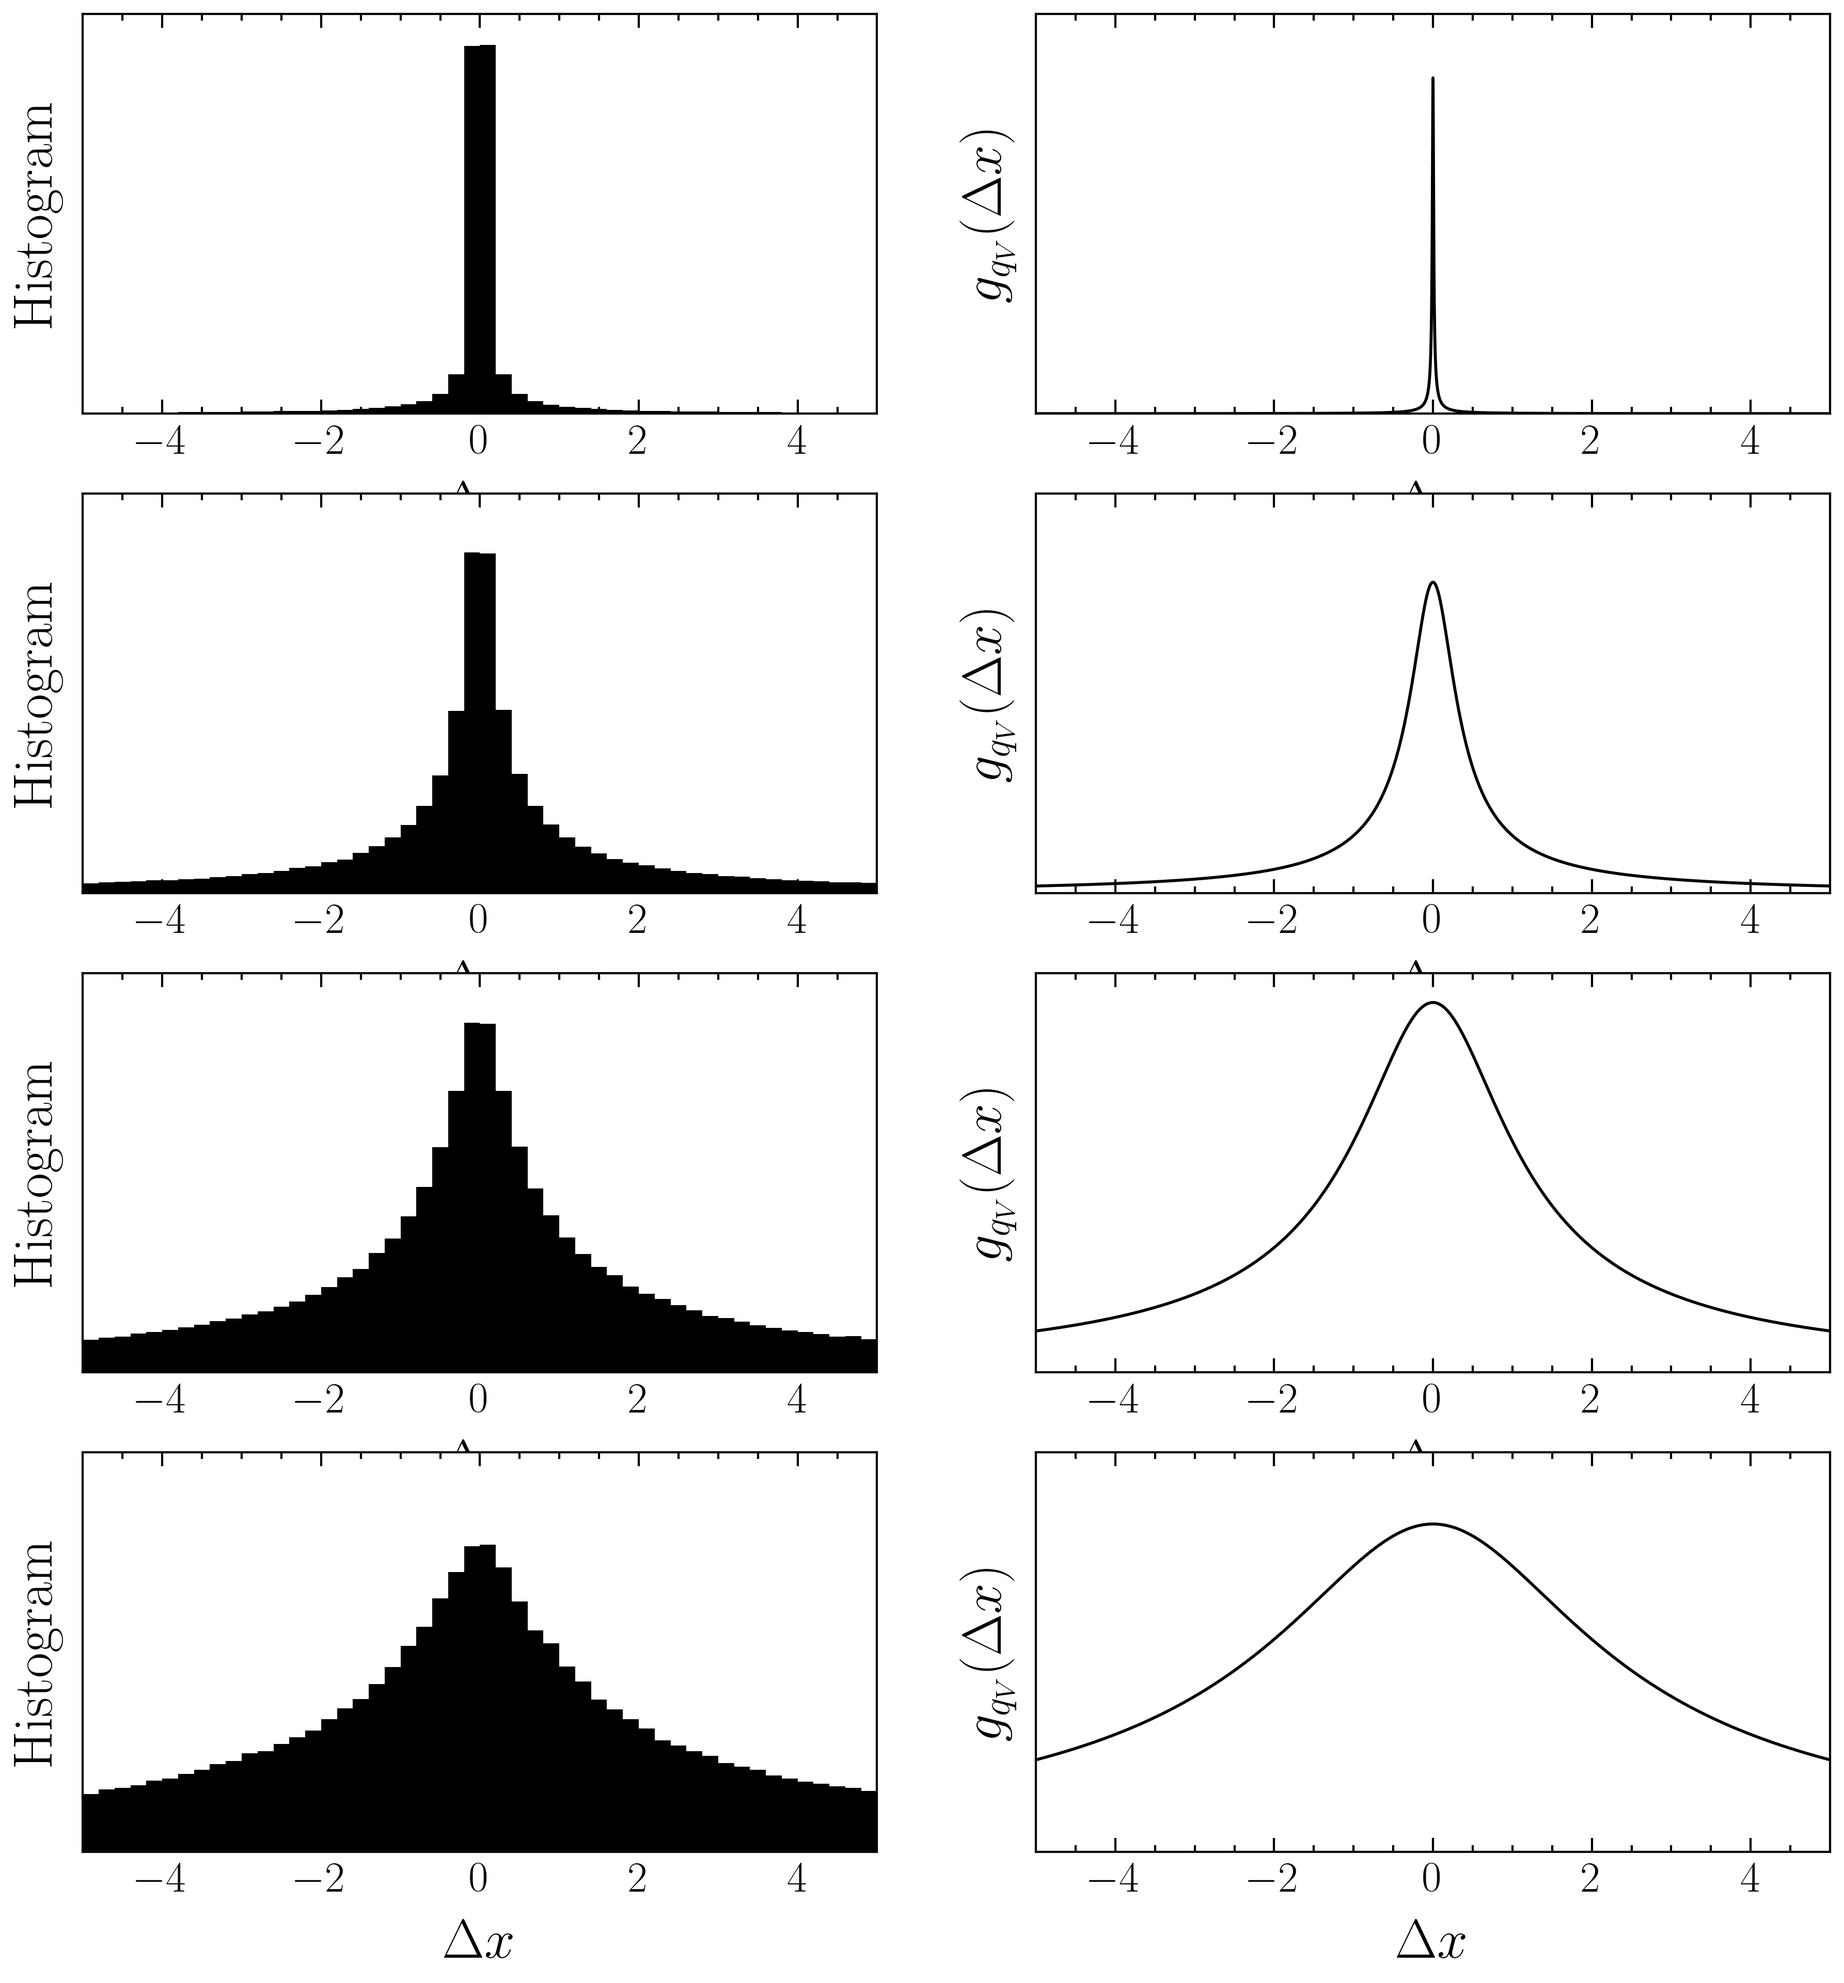
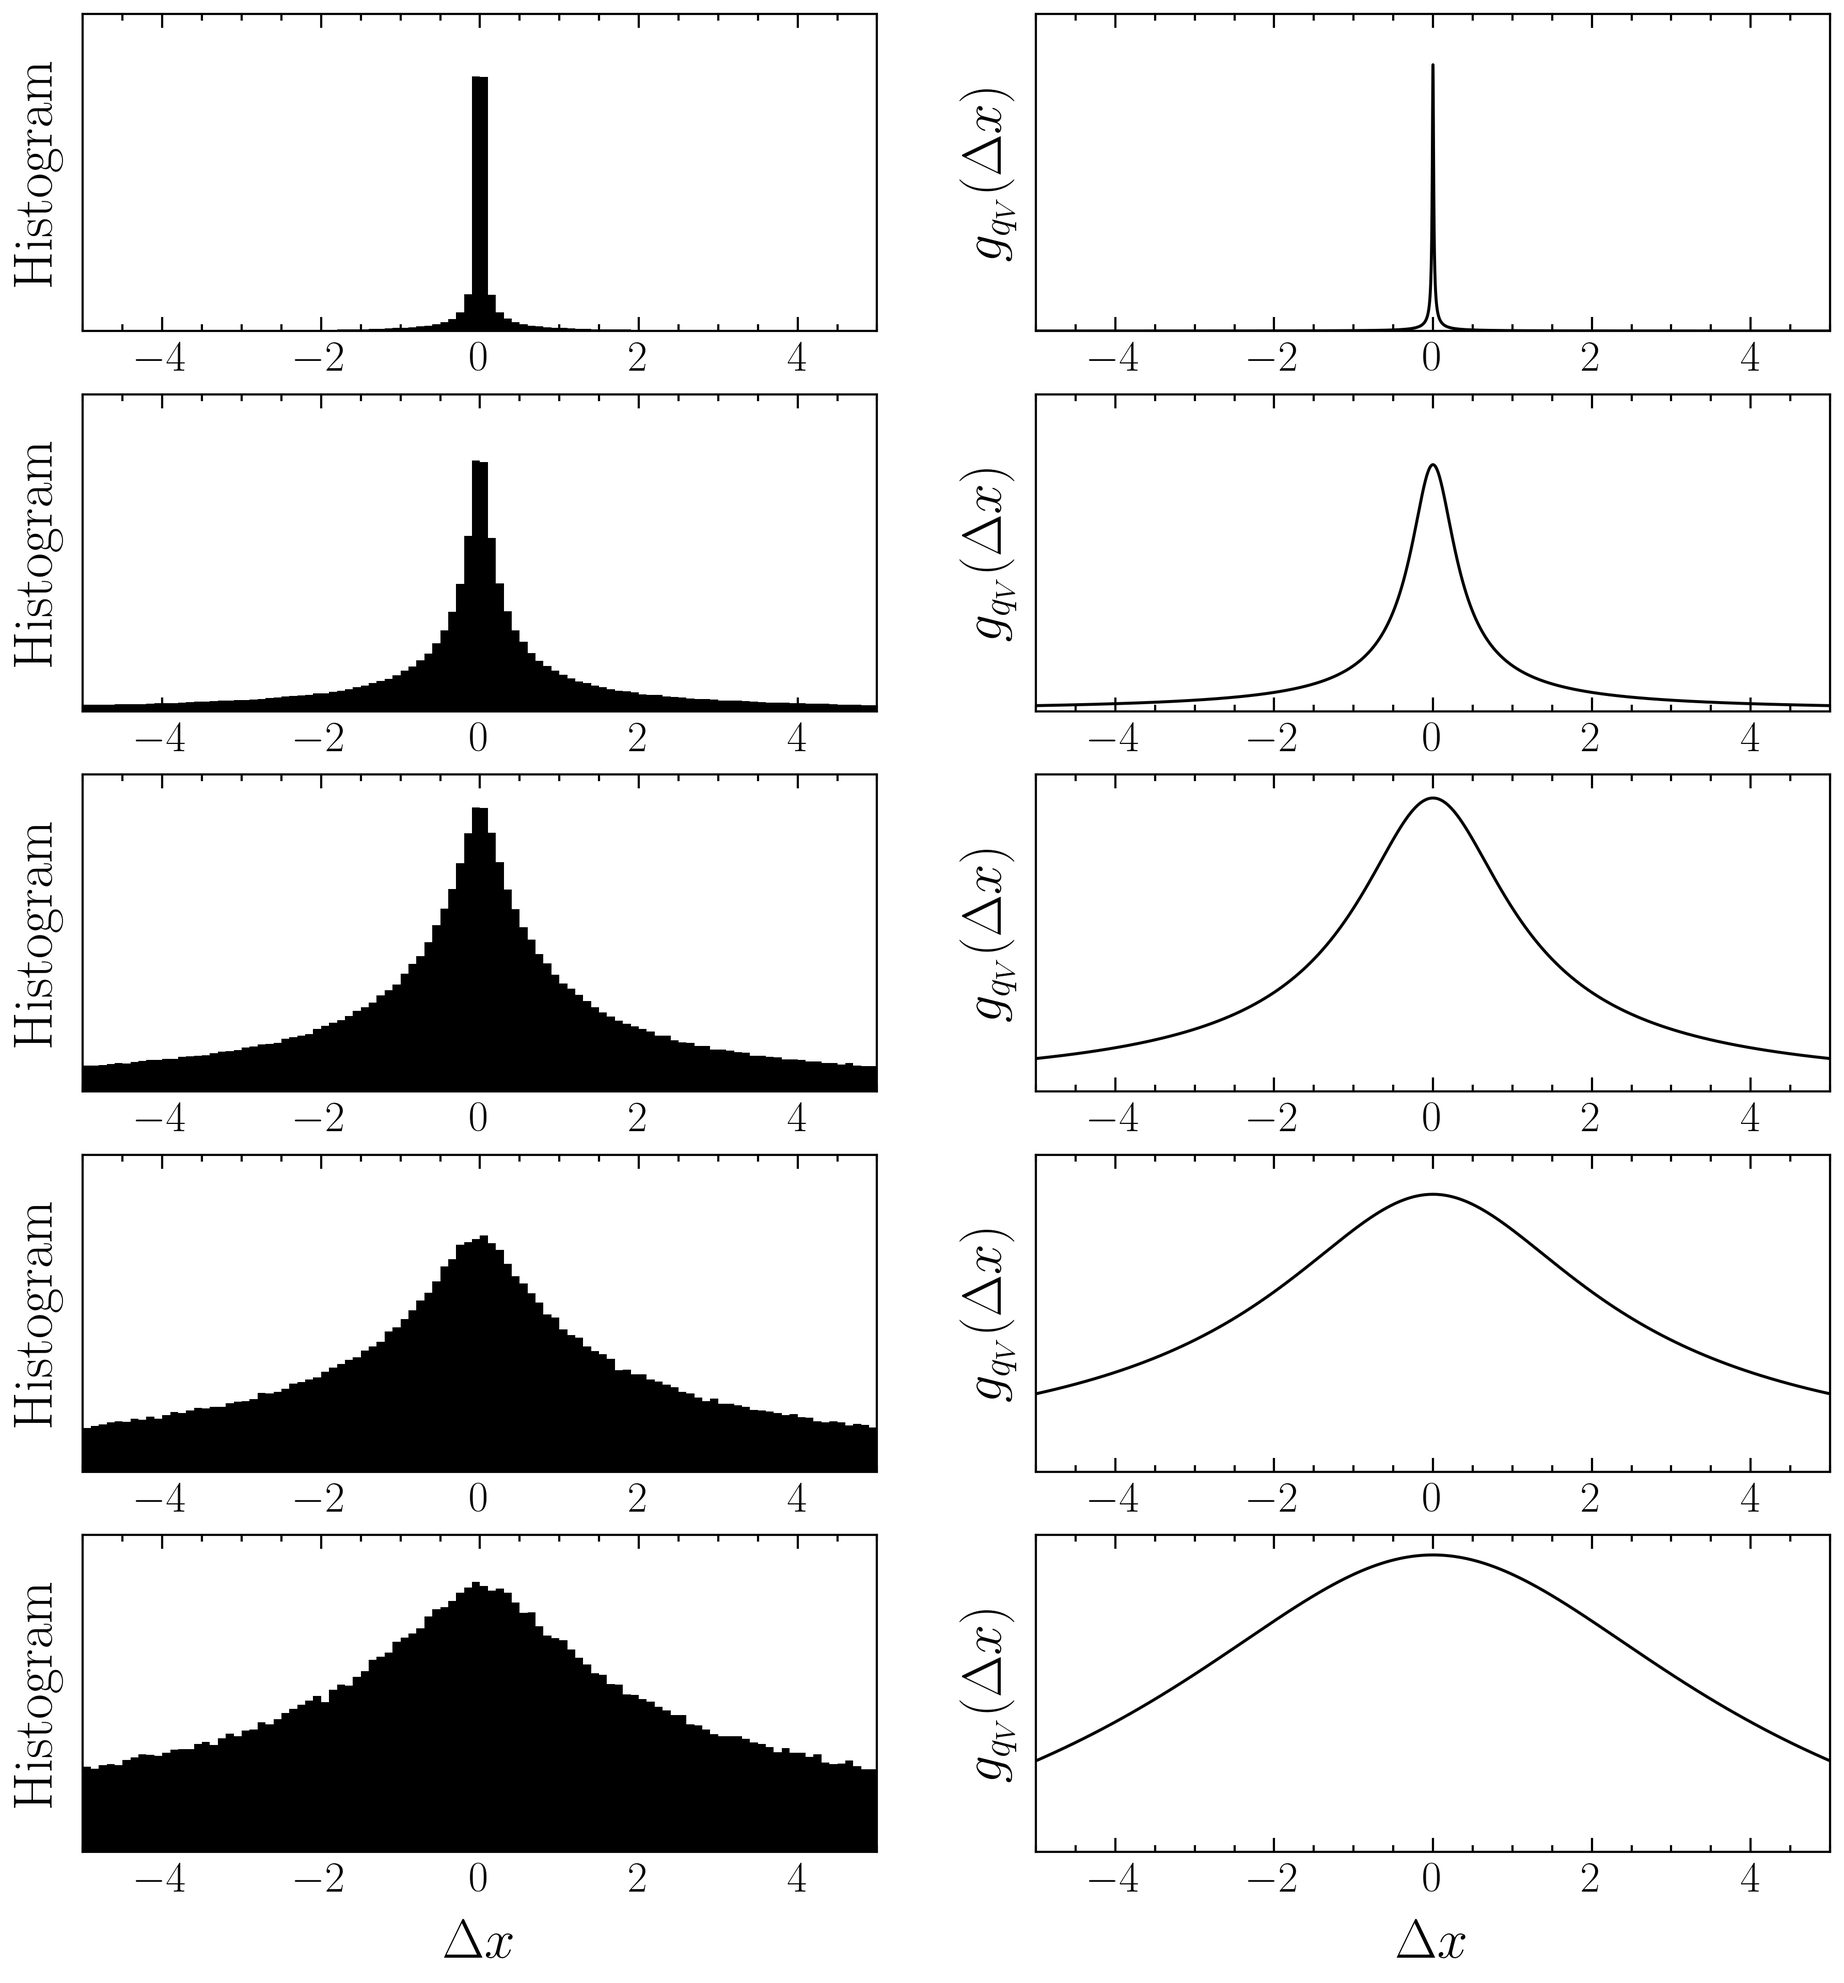
poggers

diff --git a/test_distri.py b/test_distri.py
@@ -56,22 +56,9 @@ def FixPlot(lx: float, ly: float):
 M_PI = np.pi
 
 def normal_distribution(n: int) -> np.ndarray:
-    u1 = np.random.random(n);
-    u2 = np.random.random(n);
-    return sqrt(-2.0 * log(u1)) * cos(2.0 * M_PI * u2);
-
-def get_random_gsa(qV: float, T: float, n: int) -> np.ndarray:
-    f1 = exp(log(T) / (qV - 1.0));
-    f2 = exp((4.0 - qV) * log(qV - 1.0));
-    f3 = exp((2.0 - qV) * log(2.0) / (qV - 1.0));
-    f4 = sqrt(M_PI) * f1 * f2 / (f3 * (3.0 - qV));
-    f5 = 1.0 / (qV - 1.0) - 0.5;
-    f6 = M_PI * (1.0 - f5) / sin(M_PI * (1.0 - f5)) / tgamma(2.0 - f5);
-    sigmax = exp(-(qV - 1.0) * log(f6 / f4) / (3.0 - qV));
-    x = sigmax * normal_distribution(n);
-    y = normal_distribution(n);
-    den = exp((qV - 1.0) * log(fabs(y)) / (3.0 - qV));
-    return x / den
+    u1 = np.random.random(n)
+    u2 = np.random.random(n)
+    return sqrt(-2.0 * log(u1)) * cos(2.0 * M_PI * u2)
 
 def true_random_gsa(x: np.ndarray, qV: float, T: float, D: int) -> np.ndarray:
     f1 = ((qV - 1.0) / M_PI) ** (D / 2.0)
@@ -81,31 +68,53 @@ def true_random_gsa(x: np.ndarray, qV: float, T: float, D: int) -> np.ndarray:
     f4 = f4 ** (1.0 / (qV - 1.0) + (D - 1.0) / 2.0)
     return f1 * f2 * f3 / f4
 
+def get_random_gsa(qV: float, T: float, n: int, D: int = 1) -> np.ndarray:
+    if D == 1:
+        f1 = exp(log(T) / (qV - 1.0));
+        f2 = exp((4.0 - qV) * log(qV - 1.0));
+        f3 = exp((2.0 - qV) * log(2.0) / (qV - 1.0));
+        f4 = sqrt(M_PI) * f1 * f2 / (f3 * (3.0 - qV));
+        f5 = 1.0 / (qV - 1.0) - 0.5;
+        f6 = M_PI * (1.0 - f5) / sin(M_PI * (1.0 - f5)) / tgamma(2.0 - f5);
+        sigmax = exp(-(qV - 1.0) * log(f6 / f4) / (3.0 - qV));
+        x = sigmax * normal_distribution(n)
+        y = normal_distribution(n);
+        den = exp((qV - 1.0) * log(fabs(y)) / (3.0 - qV));
+        return x / den
+    xs = np.random.random(n)
+    x = 1.0 / ((1.0 + (1.0 - qV) * xs * xs / (T ** (2.0 / (3.0 - qV)))) ** (1.0 / (1.0 - qV) - 0.5))
+    signal = np.random.random(n)
+    return x * ((-1) * (signal < 0.5) + (signal > 0.5))
+
+
+
 def plot_for_param(axl, axr, qV: float, T: float, D: int, n: int, minv: float = -5, maxv: float = 5):
-    my_gsa = get_random_gsa(qV, T, n)
+    my_gsa = get_random_gsa(qV, T, n, D)
     
-    my_gsa_start = my_gsa > minv
-    my_gsa = my_gsa[my_gsa_start]
+    #my_gsa_start = my_gsa > minv
+    #my_gsa = my_gsa[my_gsa_start]
+    #
+    #my_gsa_end = my_gsa < maxv
+    #my_gsa = my_gsa[my_gsa_end]
+    #
+    #end, start = max(my_gsa), min(my_gsa)
     
-    my_gsa_end = my_gsa < maxv
-    my_gsa = my_gsa[my_gsa_end]
-    
-    end, start = max(my_gsa), min(my_gsa)
-    
-    x = np.linspace(start, end, n)
+    x = np.linspace(minv, maxv, n)
     
     true_gsa = true_random_gsa(x, qV, T, D)
     true_gsa = true_gsa
-    axl.hist(my_gsa, bins=50, density=True)
+    bin_size = 0.1
+    bins = np.arange(minv, maxv + 1, bin_size)
+    axl.hist(my_gsa, bins=bins, density=True)
     
-    axl.set_xlim((start, end))
+    axl.set_xlim((minv, maxv))
     axl.set_xlabel("$\\Delta x$")
     axl.set_ylabel("Histogram")
     axl.set_yticks([])
     
     axr.plot(x, true_gsa)
     
-    axr.set_xlim((start, end))
+    axr.set_xlim((minv, maxv))
     axr.set_xlabel("$\\Delta x$")
     axr.set_ylabel("$g_{q_V}(\\Delta x)$")
     axr.set_yticks([])
@@ -120,9 +129,10 @@ qV = 2.5
 D = 1
 
 FixPlot(16, 16)
-fig, ax = plt.subplots(ncols=2, nrows=4)
+rows = 5
+fig, ax = plt.subplots(ncols=2, nrows=rows)
 
-for row in range(4):
+for row in range(rows):
     plot_for_param(ax[row][0], ax[row][1], qV, T0 + row * dT, D, n)
 
 
